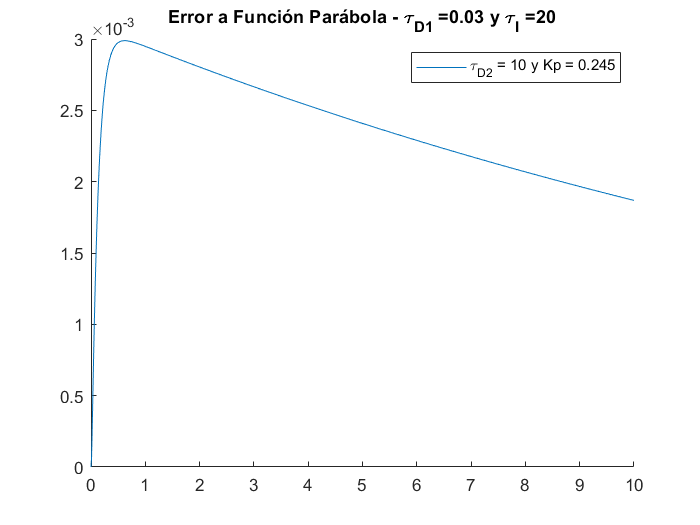
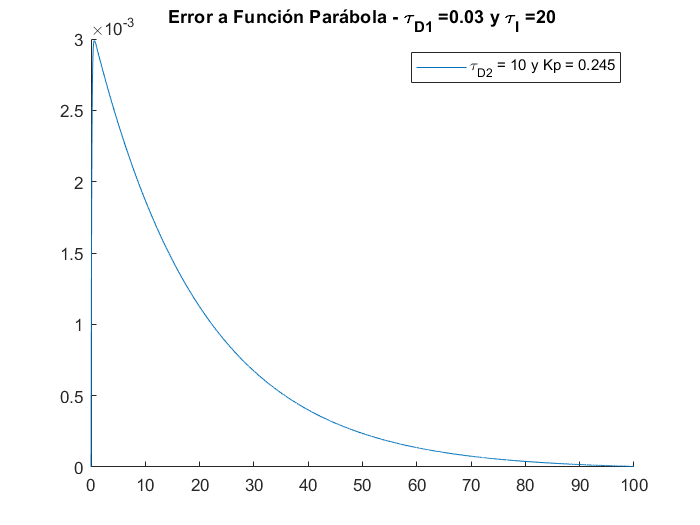
Apartado 2c OK

diff --git a/Entrega_3/Apartado1.m b/Entrega_3/Apartado1.m
@@ -76,8 +76,12 @@ Ye2 = He*X2;
 Ye3 = He*X3;
 
 e0= limit(s*Ye1,s,0);
+disp(e0)
 e1= limit(s*Ye2,s,0);
 e2= limit(s*Ye3,s,0);
+disp(e0)
+disp(e1)
+disp(e2)
 
 %% PD
 close all
@@ -161,7 +165,9 @@ E3 = He* X3;
 e0= limit(s*E1,s,0); %#OK
 e1= limit(s*E2,s,0); %#OK
 e2= limit(s*E3,s,0);%#OK
-
+disp(e0)
+disp(e1)
+disp(e2)
 %% P-D
 close all
 clear
@@ -244,6 +250,9 @@ E3 = He* X3;
 e0= limit(s*E1,s,0); %#OK
 e1= limit(s*E2,s,0); %#OK
 e2= limit(s*E3,s,0);%#OK
+disp(e0)
+disp(e1)
+disp(e2)
 %% PI
 close all
 clear
@@ -326,8 +335,9 @@ E3 = He* X3;
 e0= limit(s*E1,s,0); %#OK
 e1= limit(s*E2,s,0); %#OK
 e2= limit(s*E3,s,0);%#OK
-
-
+disp(e0)
+disp(e1)
+disp(e2)
 %% PID
 close all
 clear
@@ -438,6 +448,9 @@ E3 = He* X3;
 e0= limit(s*E1,s,0); %#OK
 e1= limit(s*E2,s,0); %#OK
 e2= limit(s*E3,s,0);%#OK
+disp(e0)
+disp(e1)
+disp(e2)
 %% PI-D
 close all
 clear
@@ -545,6 +558,9 @@ E3 = He* X3;
 e0= limit(s*E1,s,0); %#OK
 e1= limit(s*E2,s,0); %#OK
 e2= limit(s*E3,s,0);%#OK
+disp(e0)
+disp(e1)
+disp(e2)
 %% PID-D
 close all
 clear
@@ -652,26 +668,28 @@ E3 = He* X3;
 e0= limit(s*E1,s,0); %#OK
 e1= limit(s*E2,s,0); %#OK
 e2= limit(s*E3,s,0);%#OK
-
+disp(e0)
+disp(e1)
+disp(e2)
 %% D|PID
 close all
 clear
 K = 1166.89;
 p = 68;
 taud1 = [0.01,0.5,2];
-taud2 = [0.01,0.05,0.1,0.5,2]; %Debe ser negativo!
-taui = [0.5,2];
+taud2 = [0.1,0.5,1,5,20]; %Debe ser > 0
+taui = [10,20];
 % SOLO PINTA LAS FIGURAS DISTINTAS DE 0
-FIGURA_OUT = 1;
+FIGURA_OUT = 0;
 FIGURA_ESCALON = 0;
 FIGURA_RAMPA = 0;
-FIGURA_PARABOLA = 0;
+FIGURA_PARABOLA = 1;
 
-t=0:0.01:10;
+t=0:0.01:100;
 u1=t;
 u2=t.^2;
 graphics = 4;
-scaler = 8;     % Para reducir el tiempo de la señal
+scaler = 80;     % Para reducir el tiempo de la señal
 
 Kp = zeros(1,length(taud2));
 plotHandlesy = zeros(1,length(taud2));

diff --git a/Entrega_3/DPID.m b/Entrega_3/DPID.m
@@ -15,11 +15,11 @@ FIGURA_ERROR_ESCALON = 1;
 FIGURA_ERROR_RAMPA = 1;
 FIGURA_ERROR_PARABOLA = 1;
 period = 0.01;
-t=0:period:10;
+t=0:period:100;
 u1=t;
 u2=t.^2;
 graphics = 4;
-scaler = 8;     % Para reducir el tiempo de la señal
+scaler = 80;     % Para reducir el tiempo de la señal
 
 yPeriod = period/scaler;
 
@@ -52,8 +52,8 @@ for n=1:length(taui)
             HeNum = [1 0 0 0];
             HeDen = Hden;
             y = step(Hnum,Hden,t/scaler);
-            e0 = step(HeNum,HeDen,t);
-            e1 = lsim(HeNum,HeDen,u1,t);
+            e0 = step(HeNum,HeDen,t/scaler);
+            e1 = lsim(HeNum,HeDen,u1,t/scaler);
             e2 = lsim(HeNum,HeDen,u2,t);
             
             
@@ -98,14 +98,14 @@ for n=1:length(taui)
                 figure(2 + (n-1)*length(taud1)*graphics + (m1-1)*graphics);
                 title(['Error a Función Escalón - \tau_{D1} = ', num2str(taud1(m1)),' y \tau_I = ',num2str(taui(n))]);
                 hold on;
-                plotHandlese1(m2) = plot(t,e0);
+                plotHandlese1(m2) = plot(t/scaler,e0);
                 plotLabelse1{m2} = ['\tau_{D2} = ',num2str(taud2(m2)),' y Kp = ',num2str(Kp(m2))];
             end
             if FIGURA_ERROR_RAMPA ~= 0
                 figure(3 + (n-1)*length(taud1)*graphics + (m1-1)*graphics);
                 title(['Error a Función Rampa - \tau_{D1} = ', num2str(taud1(m1)),' y \tau_I = ',num2str(taui(n))]);
                 hold on;
-                plotHandlese2(m2) = plot(t,e1);
+                plotHandlese2(m2) = plot(t/scaler,e1);
                 plotLabelse2{m2} = ['\tau_{D2} = ',num2str(taud2(m2)),' y Kp = ',num2str(Kp(m2))];
             end
             if FIGURA_ERROR_PARABOLA ~= 0
